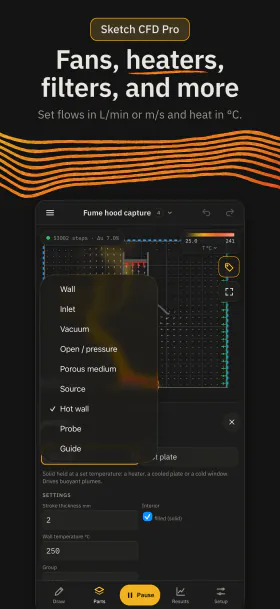
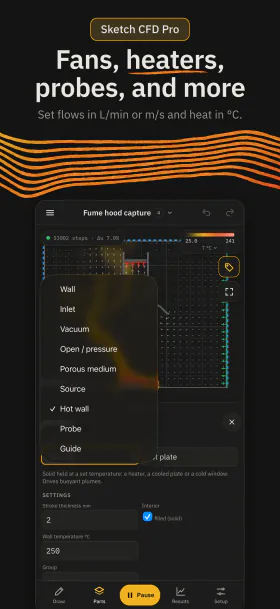
Website: monthly US$4.99, no filter wording, new App Store image 08, Terms dated October 19

Changed region(s): [[0.1143, 0.1248, 0.8857, 0.1872], [0.9143, 0.2184, 1.0, 0.312], [0.7429, 0.2184, 0.8, 0.2496]]

diff --git a/index.html b/index.html
@@ -85,7 +85,7 @@
         <li><img src="media/iphone-05-particles-280.webp" srcset="media/iphone-05-particles-280.webp 280w, media/iphone-05-particles-560.webp 560w, media/iphone-05-particles-840.webp 840w" sizes="(min-width: 1000px) 200px, (min-width: 720px) calc((100vw - 64px) / 3.4), (min-width: 480px) calc((100vw - 48px) / 2.4), min(calc((100vw - 32px) / 1.55), 260px)" width="280" height="609" loading="lazy" decoding="async" alt="Track every particle. Dust in the air, and where it settles. Built-in example."></li>
         <li><img src="media/iphone-06-examples-280.webp" srcset="media/iphone-06-examples-280.webp 280w, media/iphone-06-examples-560.webp 560w, media/iphone-06-examples-840.webp 840w" sizes="(min-width: 1000px) 200px, (min-width: 720px) calc((100vw - 64px) / 3.4), (min-width: 480px) calc((100vw - 48px) / 2.4), min(calc((100vw - 32px) / 1.55), 260px)" width="280" height="609" loading="lazy" decoding="async" alt="Learn from 14 examples. Wind tunnels, rooms, hoods, and more, with notes."></li>
         <li><img src="media/iphone-07-probes-280.webp" srcset="media/iphone-07-probes-280.webp 280w, media/iphone-07-probes-560.webp 560w, media/iphone-07-probes-840.webp 840w" sizes="(min-width: 1000px) 200px, (min-width: 720px) calc((100vw - 64px) / 3.4), (min-width: 480px) calc((100vw - 48px) / 2.4), min(calc((100vw - 32px) / 1.55), 260px)" width="280" height="609" loading="lazy" decoding="async" alt="Measure it live. Speed, pressure, and temperature at any probe. Built-in example."></li>
-        <li><img src="media/iphone-08-settings-280.webp" srcset="media/iphone-08-settings-280.webp 280w, media/iphone-08-settings-560.webp 560w, media/iphone-08-settings-840.webp 840w" sizes="(min-width: 1000px) 200px, (min-width: 720px) calc((100vw - 64px) / 3.4), (min-width: 480px) calc((100vw - 48px) / 2.4), min(calc((100vw - 32px) / 1.55), 260px)" width="280" height="609" loading="lazy" decoding="async" alt="Fans, heaters, filters, and more. Set flows in L/min or m/s and heat in °C. Sketch CFD Pro."></li>
+        <li><img src="media/iphone-08-settings-280.webp" srcset="media/iphone-08-settings-280.webp 280w, media/iphone-08-settings-560.webp 560w, media/iphone-08-settings-840.webp 840w" sizes="(min-width: 1000px) 200px, (min-width: 720px) calc((100vw - 64px) / 3.4), (min-width: 480px) calc((100vw - 48px) / 2.4), min(calc((100vw - 32px) / 1.55), 260px)" width="280" height="609" loading="lazy" decoding="async" alt="Fans, heaters, probes, and more. Set flows in L/min or m/s and heat in °C. Sketch CFD Pro."></li>
         <li><img src="media/iphone-09-light-280.webp" srcset="media/iphone-09-light-280.webp 280w, media/iphone-09-light-560.webp 560w, media/iphone-09-light-840.webp 840w" sizes="(min-width: 1000px) 200px, (min-width: 720px) calc((100vw - 64px) / 3.4), (min-width: 480px) calc((100vw - 48px) / 2.4), min(calc((100vw - 32px) / 1.55), 260px)" width="280" height="609" loading="lazy" decoding="async" alt="Dark or light. Dark by default, light when you want it. Built-in example."></li>
         <li><img src="media/iphone-10-offline-280.webp" srcset="media/iphone-10-offline-280.webp 280w, media/iphone-10-offline-560.webp 560w, media/iphone-10-offline-840.webp 840w" sizes="(min-width: 1000px) 200px, (min-width: 720px) calc((100vw - 64px) / 3.4), (min-width: 480px) calc((100vw - 48px) / 2.4), min(calc((100vw - 32px) / 1.55), 260px)" width="280" height="609" loading="lazy" decoding="async" alt="Works offline. No account. Your sketches stay on your device."></li>
       </ul>
@@ -135,7 +135,7 @@
       <div class="feature-text">
         <h2 id="draw-title">Draw it</h2>
         <p>Draw lines, rectangles, circles, curves, freehand strokes, and dimensions in mm, with snapping, undo, and redo.</p>
-        <p>Give each part a role: wall, inlet, fan, open edge, filter, gas source, hot or cold wall, or probe.</p>
+        <p>Give each part a role: wall, inlet, fan, open edge, gas source, hot or cold wall, or probe.</p>
       </div>
       <figure class="feature-shot">
         <img src="media/ipad-01-tunnel-640.webp" srcset="media/ipad-01-tunnel-640.webp 640w, media/ipad-01-tunnel-1280.webp 1280w" sizes="(min-width: 960px) 600px, calc(100vw - 32px)" width="640" height="480" loading="lazy" decoding="async" alt="Draw a shape, see the flow. Air flows around what you draw, within seconds. On iPad, air in Wind tunnel 1 flows past a drawn circle and sheds vortices behind it, colored by speed, beside the Setup panel with the tunnel’s notes and size.">
@@ -175,7 +175,7 @@
         <ul class="ticks">
           <li>Show any of these fields, with flow arrows.</li>
           <li>Follow particles in the flow, such as dust settling in a chamber.</li>
-          <li>Read probes, forces on parts (N), port flows (L/min), and filter pressure drops (Pa).</li>
+          <li>Read probes, forces on parts (N), and port flows (L/min).</li>
           <li>Help explains the lattice Boltzmann model and what it leaves out.</li>
         </ul>
       </div>
@@ -249,7 +249,7 @@
         <div class="plan pro">
           <h3>Sketch CFD Pro adds</h3>
           <ul class="ticks">
-            <li>Design anything: inlets, outlets, fans, filters, heaters, gas sources, and probes, in any size.</li>
+            <li>Design anything: inlets, outlets, fans, heaters, gas sources, and probes, in any size.</li>
             <li>Gases and liquids, heat and buoyancy, and particles.</li>
             <li>Fine meshes for more detail.</li>
             <li>Edit the examples.</li>

diff --git a/support/index.html b/support/index.html
@@ -76,12 +76,12 @@
 
       <div class="faq">
         <h3 id="what-is">What is Sketch CFD?</h3>
-        <p>Sketch CFD is an educational tool for learning computational fluid dynamics (CFD) from simple sketches: draw it, then simulate it. Draw walls, inlets, fans, filters, heaters, and gas sources on the screen, or photograph a sketch drawn on paper. Then watch the flow, gas mixing, heat, and particles develop in two dimensions. It runs on iPhone and iPad with iOS or iPadOS 16.4 or later, in English.</p>
+        <p>Sketch CFD is an educational tool for learning computational fluid dynamics (CFD) from simple sketches: draw it, then simulate it. Draw walls, inlets, fans, heaters, and gas sources on the screen, or photograph a sketch drawn on paper. Then watch the flow, gas mixing, heat, and particles develop in two dimensions. It runs on iPhone and iPad with iOS or iPadOS 16.4 or later, in English.</p>
 
         <h3 id="free-pro">What is free, and what does Sketch CFD Pro add?</h3>
         <p>Free: run and explore all 14 examples, and draw walls of any shape in a wind tunnel, at the Coarse or Medium resolution. Projects, files, and the help are free too. Sketch CFD Pro adds:</p>
         <ul>
-          <li>inlets, outlets, fans, filters, heaters, gas sources, and probes, in any size;</li>
+          <li>inlets, outlets, fans, heaters, gas sources, and probes, in any size;</li>
           <li>gases and liquids, heat and buoyancy, and particles;</li>
           <li>Fine meshes;</li>
           <li>editing the examples;</li>
@@ -90,7 +90,7 @@
         </ul>
 
         <h3 id="cost">How much does Sketch CFD Pro cost?</h3>
-        <p>In the United States, US$6.99 per month with a 7-day free trial, or US$49.99 per year with a 14-day free trial. Prices differ in other countries, and the free trial is for eligible accounts only. The app shows the price for your country before you confirm.</p>
+        <p>In the United States, US$4.99 per month with a 7-day free trial, or US$49.99 per year with a 14-day free trial. Prices differ in other countries, and the free trial is for eligible accounts only. The app shows the price for your country before you confirm.</p>
 
         <h3 id="other-device">How do I turn on Sketch CFD Pro on another iPhone or iPad?</h3>
         <p>Sign in with the same Apple Account, open Menu &gt; Sketch CFD Pro, and tap Restore purchases. Restore purchases is also in Menu &gt; About Sketch CFD.</p>

diff --git a/terms/index.html b/terms/index.html
@@ -35,7 +35,7 @@
   <div class="wrap">
     <article class="prose">
       <h1 class="page-title">Sketch CFD Terms of Use</h1>
-      <p class="updated">Last updated: October 18, 2026</p>
+      <p class="updated">Last updated: October 19, 2026</p>
 
       <p>These Terms of Use (“Terms”) are an agreement between you and Omnis Dragon LLC, doing business as Journey On (“Journey On”, “we”, “us”). They cover the Sketch CFD app for iPhone and iPad (“Sketch CFD” or “the app”), the Sketch CFD web app once it is available, and the Sketch CFD Pro subscription. Please read them in full, and especially section 4 (Educational use only), section 11 (No warranty) and section 12 (Limitation of liability). By downloading or using the app, you agree to these Terms. If you do not agree, do not use the app.</p>
 
@@ -115,7 +115,7 @@
         <li>Speed. Results hold only at moderate flow speeds on the chosen grid; the app warns when a run goes beyond them.</li>
         <li>Open edges. They take gas in as if from still air.</li>
         <li>Particles. They do not affect the flow, have no inertia and do not collide, and each run uses one particle size. Particle results are random and differ from run to run.</li>
-        <li>Porous parts. Capture of particles and tracer by a filter follows the value you set; it is not calculated from a theory of capture.</li>
+        <li>The Porous type. Capture of particles and tracer by a part of that type follows the value you set; it is not calculated from a theory of capture.</li>
         <li>The paper import. It can miss or misread parts, and it does not read handwriting. Check every part, role and value on the review screen before you use an imported sketch.</li>
       </ul>
       <p>Help and shortcuts &gt; Model in the app describes the model in more detail.</p>
@@ -164,7 +164,7 @@
       </ul>
       <p><strong>8.2 What Sketch CFD Pro adds.</strong></p>
       <ul>
-        <li>Design anything: inlets, outlets, fans, filters, heaters, gas sources, and probes, in any size.</li>
+        <li>Design anything: inlets, outlets, fans, heaters, gas sources, and probes, in any size.</li>
         <li>Gases and liquids, heat and buoyancy, and particles.</li>
         <li>Fine meshes for more detail.</li>
         <li>Edit the examples.</li>

diff --git a/pricing/index.html b/pricing/index.html
@@ -51,7 +51,7 @@
         <div class="plan pro">
           <h3>Sketch CFD Pro adds</h3>
           <ul class="ticks">
-            <li>Design anything: inlets, outlets, fans, filters, heaters, gas sources, and probes, in any size.</li>
+            <li>Design anything: inlets, outlets, fans, heaters, gas sources, and probes, in any size.</li>
             <li>Gases and liquids, heat and buoyancy, and particles.</li>
             <li>Fine meshes for more detail.</li>
             <li>Edit the examples.</li>
@@ -64,7 +64,7 @@
       <h2 id="app">In the iPhone and iPad app</h2>
       <ul>
         <li><strong>Yearly:</strong> US$49.99 a year, with a 14-day free trial.</li>
-        <li><strong>Monthly:</strong> US$6.99 a month, with a 7-day free trial.</li>
+        <li><strong>Monthly:</strong> US$4.99 a month, with a 7-day free trial.</li>
       </ul>
       <p>These are the prices in the United States. In other countries the App Store shows the price in your currency, and it may include taxes. Apple bills the subscription to your Apple Account, and free trials are for eligible new subscribers. Refunds for purchases in the app are handled by Apple.</p>
 
@@ -72,7 +72,7 @@
       <p>The Sketch CFD web app runs in a web browser on a computer. It is not open to the public yet. When it opens, Sketch CFD Pro on the web will cost:</p>
       <ul>
         <li><strong>Yearly:</strong> US$49.99 a year, with a 14-day free trial.</li>
-        <li><strong>Monthly:</strong> US$6.99 a month, with a 7-day free trial.</li>
+        <li><strong>Monthly:</strong> US$4.99 a month, with a 7-day free trial.</li>
       </ul>
       <p>On the web, Sketch CFD Pro also includes parameter sweeps, optimization studies and designs of experiments, and scorecards and comparisons of sketches.</p>
       <p>Orders on the web are processed by Paddle.com, our online reseller and the Merchant of Record for those orders. Sales tax or VAT is added at checkout where it applies. You can get a full refund within 14 days of your first payment and of each yearly renewal, as the <a href="../refunds/">Refund Policy</a> says.</p>
